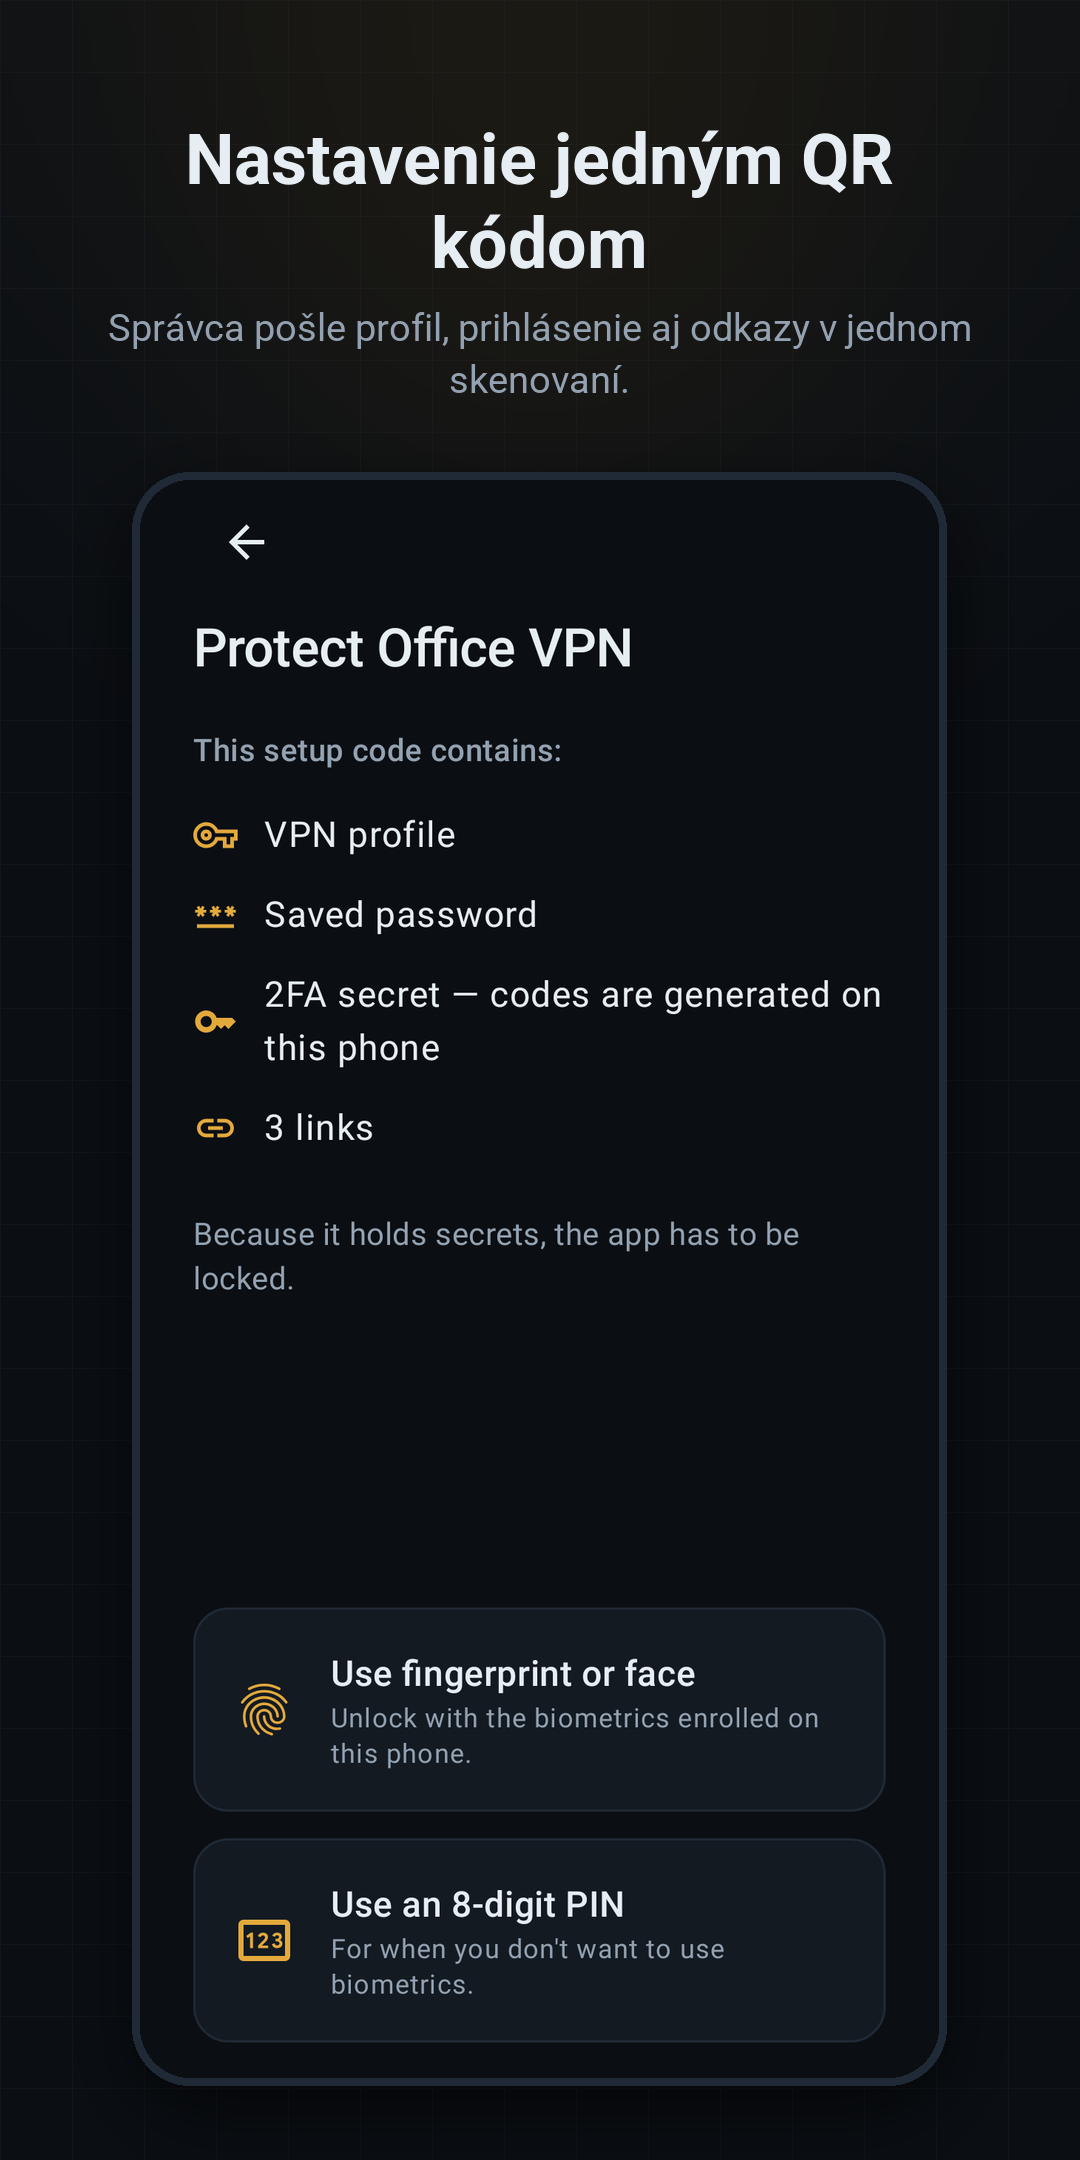
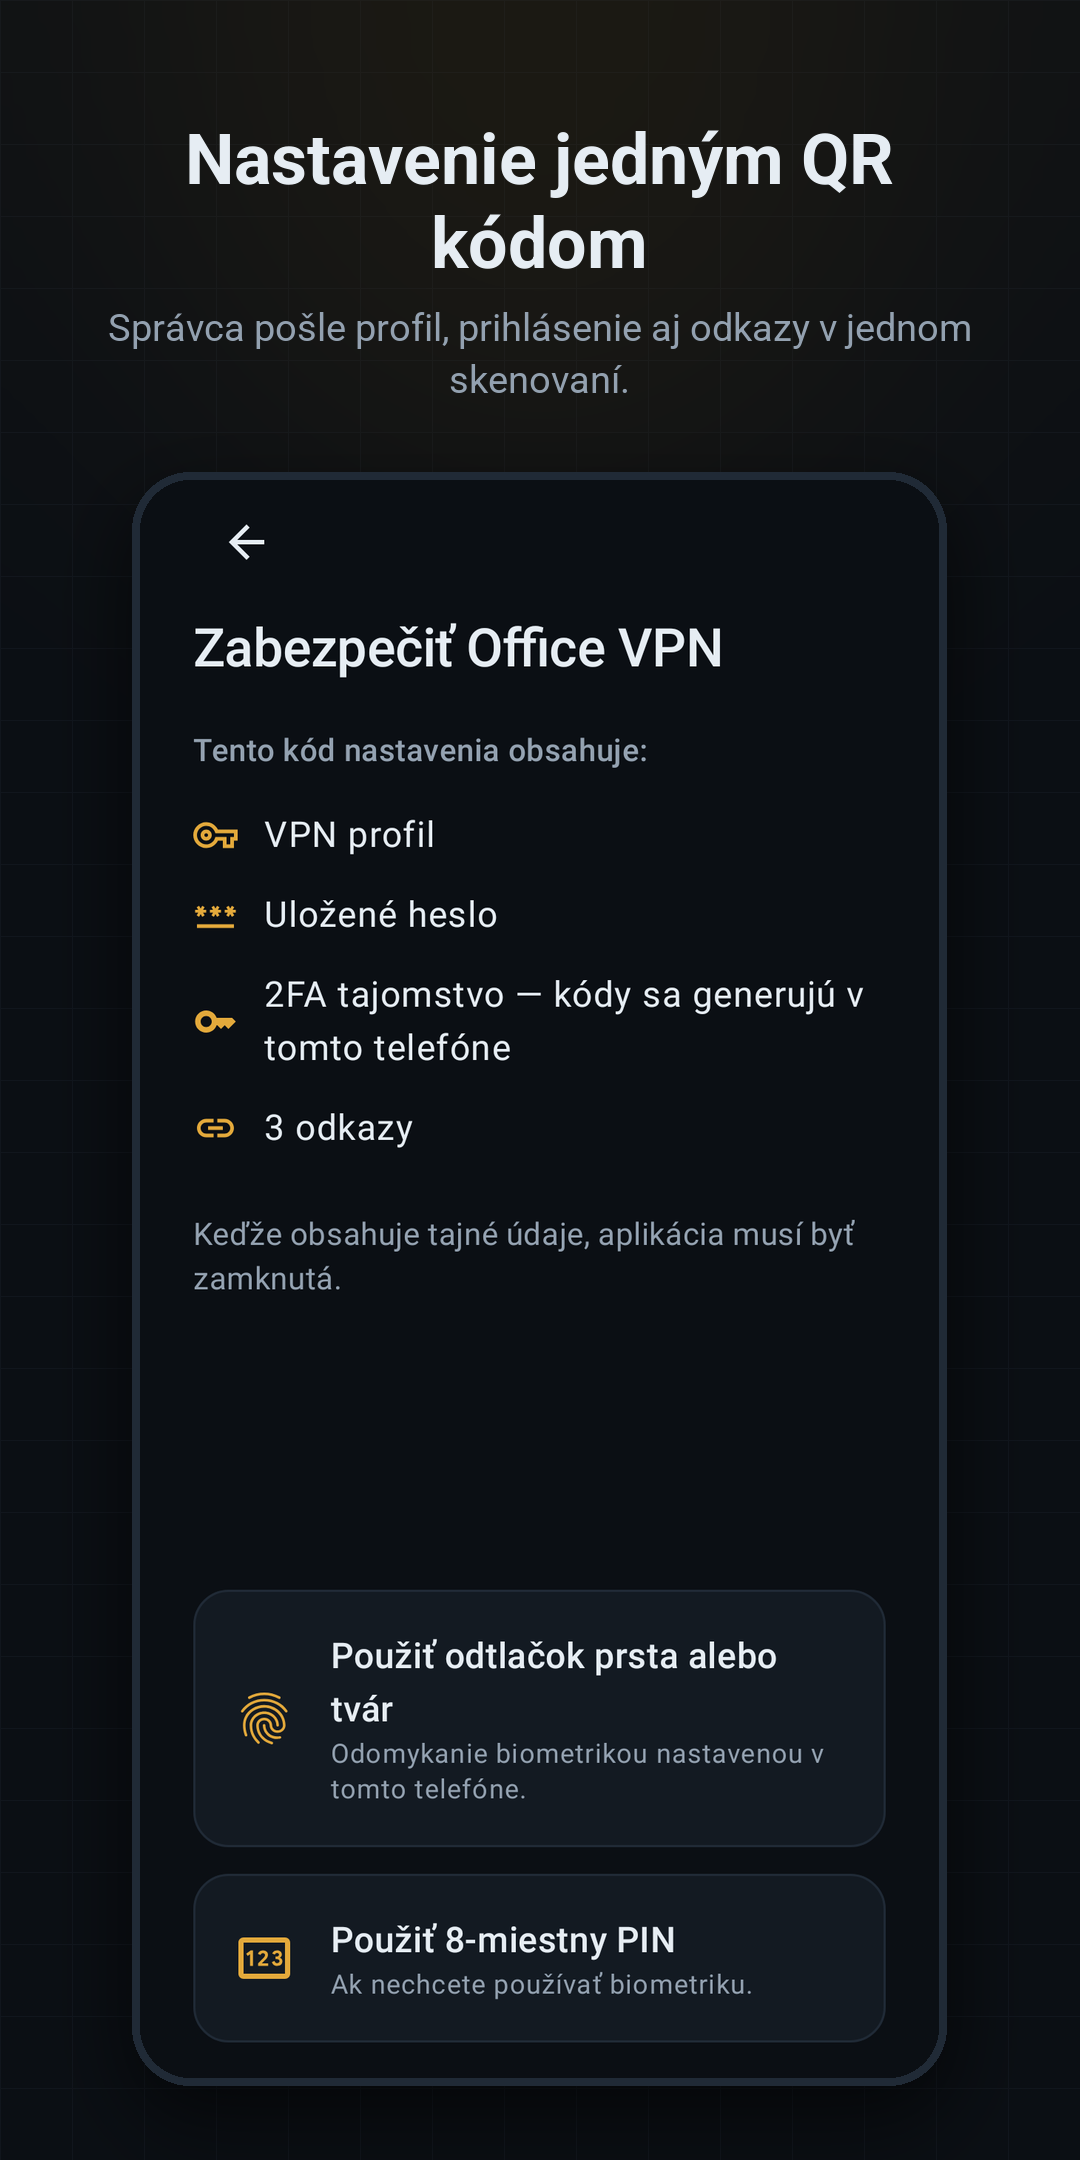
Android: Slovak translation
- values-sk with every string translated (proper Slovak plurals);
  Slovak is used when the phone's language is Slovak, English otherwise
- Per-app language list for Android 13+ settings
- Remaining hard-coded English (import and setup-code errors, OK buttons,
  PIN dots label, connection steps) moved to resources
- Native library linked for 16 KB pages (Play requirement for Android 15+)
- Slovak Play screenshots rendered from the Slovak UI; lint clean

diff --git a/android/app/src/main/java/app/tunnelkey/provision/SetupCode.kt b/android/app/src/main/java/app/tunnelkey/provision/SetupCode.kt
@@ -37,7 +37,9 @@ data class SetupPayload(
     @SerialName("l") val links: List<SetupLink> = emptyList(),
 )
 
-class SetupCodeException(message: String) : Exception(message)
+class SetupCodeException(val kind: Kind) : Exception(kind.name) {
+    enum class Kind { Damaged, TooLarge, NewerVersion, Incomplete }
+}
 
 /** One scanned QR code of a set. */
 data class SetupPart(val index: Int, val total: Int, val id: String, val data: String) {
@@ -80,7 +82,7 @@ class SetupCodeAssembler {
     }
 
     fun payload(): SetupPayload {
-        if (!isComplete) throw SetupCodeException("Not all parts scanned yet")
+        if (!isComplete) throw SetupCodeException(SetupCodeException.Kind.Incomplete)
         return SetupCodes.decode(parts.values.joinToString(""))
     }
 }
@@ -96,15 +98,15 @@ object SetupCodes {
         val payload = try {
             json.decodeFromString<SetupPayload>(raw.toString(Charsets.UTF_8))
         } catch (e: Exception) {
-            throw SetupCodeException("The setup code is damaged.")
+            throw SetupCodeException(SetupCodeException.Kind.Damaged)
         }
-        if (payload.version != 1) throw SetupCodeException("This setup code needs a newer version of Tunnelkey.")
-        if (payload.name.isBlank() || payload.ovpn.isBlank()) throw SetupCodeException("The setup code is incomplete.")
+        if (payload.version != 1) throw SetupCodeException(SetupCodeException.Kind.NewerVersion)
+        if (payload.name.isBlank() || payload.ovpn.isBlank()) throw SetupCodeException(SetupCodeException.Kind.Incomplete)
         return payload
     }
 
     fun base45Decode(s: String): ByteArray {
-        if (s.length % 3 == 1) throw SetupCodeException("Invalid setup code length")
+        if (s.length % 3 == 1) throw SetupCodeException(SetupCodeException.Kind.Damaged)
         val out = ByteArrayOutputStream(s.length * 2 / 3)
         var i = 0
         while (i < s.length) {
@@ -112,12 +114,12 @@ object SetupCodes {
             val c1 = value(s[i + 1])
             if (i + 2 < s.length) {
                 val v = c0 + c1 * 45 + value(s[i + 2]) * 2025
-                if (v > 0xFFFF) throw SetupCodeException("Invalid setup code")
+                if (v > 0xFFFF) throw SetupCodeException(SetupCodeException.Kind.Damaged)
                 out.write(v shr 8)
                 out.write(v and 0xFF)
             } else {
                 val v = c0 + c1 * 45
-                if (v > 0xFF) throw SetupCodeException("Invalid setup code")
+                if (v > 0xFF) throw SetupCodeException(SetupCodeException.Kind.Damaged)
                 out.write(v)
             }
             i += 3
@@ -127,7 +129,7 @@ object SetupCodes {
 
     private fun value(c: Char): Int {
         val v = ALPHABET.indexOf(c)
-        if (v < 0) throw SetupCodeException("Invalid character in setup code")
+        if (v < 0) throw SetupCodeException(SetupCodeException.Kind.Damaged)
         return v
     }
 
@@ -141,14 +143,14 @@ object SetupCodes {
             while (!inflater.finished()) {
                 val n = inflater.inflate(buf)
                 if (n == 0 && (inflater.needsInput() || inflater.needsDictionary())) {
-                    throw SetupCodeException("The setup code is damaged.")
+                    throw SetupCodeException(SetupCodeException.Kind.Damaged)
                 }
                 out.write(buf, 0, n)
-                if (out.size() > MAX_INFLATED) throw SetupCodeException("The setup code is too large.")
+                if (out.size() > MAX_INFLATED) throw SetupCodeException(SetupCodeException.Kind.TooLarge)
             }
             return out.toByteArray()
         } catch (e: java.util.zip.DataFormatException) {
-            throw SetupCodeException("The setup code is damaged.")
+            throw SetupCodeException(SetupCodeException.Kind.Damaged)
         } finally {
             inflater.end()
         }

diff --git a/android/app/src/test/java/app/tunnelkey/PlayStoreScreenshots.kt b/android/app/src/test/java/app/tunnelkey/PlayStoreScreenshots.kt
@@ -39,12 +39,13 @@ import org.junit.Before
 import org.junit.Rule
 import org.junit.Test
 import org.junit.runner.RunWith
+import org.robolectric.RuntimeEnvironment
 import org.robolectric.annotation.Config
 import org.robolectric.annotation.GraphicsMode
 
 /**
  * Renders the Google Play screenshots from the real screens with demo data.
- * Only runs with:  ./gradlew :app:testDebugUnitTest -PplayScreenshots --tests '*PlayStoreScreenshots*'
+ * Only runs with:  ./gradlew :app:testDebugUnitTest -PplayScreenshots [-PplayLocale=sk] --tests '*PlayStoreScreenshots*'
  * Output: docs/play-store/screens-raw/  (framed by docs/play-store/make_graphics.py)
  */
 @RunWith(AndroidJUnit4::class)
@@ -54,9 +55,14 @@ class PlayStoreScreenshots {
 
     @get:Rule val compose = createComposeRule()
 
-    private val dir get() = System.getProperty("screenshotDir")!!
+    private val locale get() = System.getProperty("playLocale") ?: "en-US"
+    private val dir get() = System.getProperty("screenshotDir")!! + "/" + locale
 
-    @Before fun onlyWhenRequested() = assumeTrue(System.getProperty("playScreenshots") == "true")
+    @Before fun onlyWhenRequested() {
+        assumeTrue(System.getProperty("playScreenshots") == "true")
+        // -PplayLocale=sk renders the Slovak UI.
+        if (locale != "en-US") RuntimeEnvironment.setQualifiers("+${locale.substringBefore('-')}")
+    }
 
     private fun screen(content: @Composable () -> Unit) = compose.setContent {
         TunnelkeyTheme(dark = true) {
@@ -114,7 +120,7 @@ class PlayStoreScreenshots {
                 onSubmit = { _, _ -> }, onDismiss = {},
             )
         }
-        compose.onNode(hasContentDescription("Authenticator code")).performTextInput("4829")
+        compose.onNode(hasContentDescription(if (locale == "sk") "Overovací kód" else "Authenticator code")).performTextInput("4829")
         compose.waitForIdle()
         captureScreenRoboImage("$dir/2_sign_in.png")
     }

diff --git a/android/app/src/main/java/app/tunnelkey/data/ProfileRepository.kt b/android/app/src/main/java/app/tunnelkey/data/ProfileRepository.kt
@@ -3,6 +3,7 @@ package app.tunnelkey.data
 import android.content.Context
 import android.net.Uri
 import android.provider.OpenableColumns
+import app.tunnelkey.R
 import kotlinx.coroutines.Dispatchers
 import kotlinx.coroutines.flow.MutableStateFlow
 import kotlinx.coroutines.flow.StateFlow
@@ -19,7 +20,8 @@ data class ImportDraft(
     val summary: OvpnSummary,
 )
 
-class ImportException(message: String) : Exception(message)
+/** [messageRes] is a user-facing string resource. */
+class ImportException(@androidx.annotation.StringRes val messageRes: Int) : Exception()
 
 /**
  * Profiles live in app-private storage: one `<id>.ovpn` per profile plus a
@@ -46,13 +48,13 @@ class ProfileRepository(private val context: Context, private val secrets: Secre
 
         val bytes = resolver.openInputStream(uri)?.use { input ->
             val buffer = input.readNBytesCompat(OvpnInspector.MAX_PROFILE_BYTES + 1)
-            if (buffer.size > OvpnInspector.MAX_PROFILE_BYTES) throw ImportException("This file is too large to be an OpenVPN profile.")
+            if (buffer.size > OvpnInspector.MAX_PROFILE_BYTES) throw ImportException(R.string.import_too_large)
             buffer
-        } ?: throw ImportException("The file could not be opened.")
+        } ?: throw ImportException(R.string.import_unreadable)
 
-        val content = String(bytes, Charsets.UTF_8).removePrefix("")
+        val content = String(bytes, Charsets.UTF_8).removePrefix(Char(0xFEFF).toString()) // byte-order mark
         val summary = OvpnInspector.inspect(content)
-        if (!summary.isValid) throw ImportException("This doesn't look like an OpenVPN client profile (no “remote” found).")
+        if (!summary.isValid) throw ImportException(R.string.import_not_profile)
         ImportDraft(name.substringBeforeLast('.').ifBlank { "Profile" }, content, summary)
     }
 

diff --git a/android/app/src/main/java/app/tunnelkey/ui/components/StatusHero.kt b/android/app/src/main/java/app/tunnelkey/ui/components/StatusHero.kt
@@ -99,10 +99,10 @@ fun StatusHero(status: TunnelStatus, profileName: String?, modifier: Modifier = 
             if (status.phase == Phase.Connected && since != null) {
                 Text("  ·  ", color = colors.onSurfaceVariant)
                 SessionTimer(since)
-            } else if (status.phase == Phase.Connecting && status.step.isNotEmpty()) {
+            } else if (status.phase == Phase.Connecting && stepLabel(status.step) != null) {
                 Text("  ·  ", color = colors.onSurfaceVariant)
                 Text(
-                    status.step.lowercase().replace('_', ' '),
+                    stringResource(stepLabel(status.step)!!),
                     style = MaterialTheme.typography.bodyMedium,
                     color = colors.onSurfaceVariant,
                 )
@@ -239,4 +239,15 @@ fun formatBytes(bytes: Long): String {
         unit++
     }
     return if (value >= 100) "%.0f %s".format(value, units[unit]) else "%.1f %s".format(value, units[unit])
+}
+
+/** Human-readable label for the OpenVPN core's connection steps; null hides the step. */
+private fun stepLabel(step: String): Int? = when (step) {
+    "RESOLVE" -> R.string.step_resolve
+    "WAIT", "CONNECTING" -> R.string.step_connecting
+    "AUTH_PENDING" -> R.string.step_auth
+    "GET_CONFIG" -> R.string.step_get_config
+    "ASSIGN_IP" -> R.string.step_assign_ip
+    "ADD_ROUTES" -> R.string.step_add_routes
+    else -> null
 }

diff --git a/android/app/src/main/java/app/tunnelkey/ui/MainActivity.kt b/android/app/src/main/java/app/tunnelkey/ui/MainActivity.kt
@@ -367,7 +367,7 @@ private fun App(vm: MainViewModel) {
             onDismissRequest = { error = null },
             title = { Text(stringResource(title)) },
             text = { Text(message) },
-            confirmButton = { TextButton(onClick = { error = null }) { Text("OK") } },
+            confirmButton = { TextButton(onClick = { error = null }) { Text(stringResource(R.string.action_ok)) } },
         )
     }
 
@@ -387,7 +387,7 @@ private fun App(vm: MainViewModel) {
                         }
                     }) { Text(stringResource(R.string.link_get_rdp_app)) }
                 } else {
-                    TextButton(onClick = { missingApp = null }) { Text("OK") }
+                    TextButton(onClick = { missingApp = null }) { Text(stringResource(R.string.action_ok)) }
                 }
             },
             dismissButton = if (link.kind == "rdp") {
@@ -413,7 +413,7 @@ private fun AboutDialog(onDismiss: () -> Unit) {
         onDismissRequest = onDismiss,
         title = { Text("${stringResource(R.string.app_name)} $version") },
         text = { Text(stringResource(R.string.about_body, core)) },
-        confirmButton = { TextButton(onClick = onDismiss) { Text("OK") } },
+        confirmButton = { TextButton(onClick = onDismiss) { Text(stringResource(R.string.action_ok)) } },
         dismissButton = {
             TextButton(onClick = {
                 runCatching {

diff --git a/android/app/src/main/java/app/tunnelkey/ui/screens/ScanScreen.kt b/android/app/src/main/java/app/tunnelkey/ui/screens/ScanScreen.kt
@@ -110,7 +110,14 @@ fun ScanScreen(onScanned: (SetupPayload) -> Unit, onBack: () -> Unit) {
             try {
                 onScanned(assembler.payload())
             } catch (e: SetupCodeException) {
-                message = e.message
+                message = context.getString(
+                    when (e.kind) {
+                        SetupCodeException.Kind.Damaged -> R.string.setup_code_damaged
+                        SetupCodeException.Kind.TooLarge -> R.string.setup_code_too_large
+                        SetupCodeException.Kind.NewerVersion -> R.string.setup_code_newer_version
+                        SetupCodeException.Kind.Incomplete -> R.string.setup_code_incomplete
+                    },
+                )
                 messageKey++
             }
         }

diff --git a/android/app/src/main/java/app/tunnelkey/ui/components/PinPad.kt b/android/app/src/main/java/app/tunnelkey/ui/components/PinPad.kt
@@ -46,10 +46,11 @@ fun PinDots(length: Int, filled: Int, errorKey: Int, error: Boolean) {
         for (x in listOf(-14f, 12f, -9f, 6f, -3f, 0f)) shake.animateTo(x, spring(stiffness = Spring.StiffnessHigh))
     }
     val colors = MaterialTheme.colorScheme
+    val description = stringResource(R.string.pin_dots_description, filled, length)
     Row(
         Modifier
             .offset { IntOffset(shake.value.dp.roundToPx(), 0) }
-            .semantics { contentDescription = "$filled of $length digits entered" },
+            .semantics { contentDescription = description },
         horizontalArrangement = Arrangement.spacedBy(12.dp),
     ) {
         repeat(length) { i ->

diff --git a/android/app/src/main/java/app/tunnelkey/ui/screens/LockScreens.kt b/android/app/src/main/java/app/tunnelkey/ui/screens/LockScreens.kt
@@ -282,7 +282,7 @@ fun LockScreen(
                     when (val r = onPin(pin)) {
                         is PinResult.Unlocked -> Unit
                         is PinResult.Wrong -> {
-                            error = context.getString(R.string.lock_wrong_pin, r.attemptsLeft)
+                            error = context.resources.getQuantityString(R.plurals.lock_wrong_pin, r.attemptsLeft, r.attemptsLeft)
                             until = r.lockedUntil
                             errorKey++
                         }

diff --git a/android/app/src/main/java/app/tunnelkey/ui/MainViewModel.kt b/android/app/src/main/java/app/tunnelkey/ui/MainViewModel.kt
@@ -155,7 +155,7 @@ class MainViewModel(app: Application) : AndroidViewModel(app) {
             )
             _events.send(UiEvent.OpenEditor)
         } catch (e: ImportException) {
-            _events.send(UiEvent.Error("import", e.message.orEmpty()))
+            _events.send(UiEvent.Error("import", getApplication<Application>().getString(e.messageRes)))
         } catch (e: Exception) {
             _events.send(UiEvent.Error("import", e.message ?: e.javaClass.simpleName))
         }

diff --git a/docs/play-store/make_graphics.py b/docs/play-store/make_graphics.py
@@ -1,7 +1,8 @@
 """Builds the Google Play graphics from the rendered app screens.
 
-    1. Render the screens (real Compose UI, demo data):
+    1. Render the screens (real Compose UI, demo data), once per language:
          cd android && ./gradlew :app:testDebugUnitTest -PplayScreenshots --tests '*PlayStoreScreenshots*'
+         cd android && ./gradlew :app:testDebugUnitTest -PplayScreenshots -PplayLocale=sk --tests '*PlayStoreScreenshots*'
     2. python docs/play-store/make_graphics.py
 
 Writes into fastlane/metadata/android/<locale>/images/:
@@ -154,9 +155,11 @@ def feature_graphic(raw, tagline):
 
 
 def main():
-    raws = {name: Image.open(RAW / f"{name}.png").convert("RGB") for name in SCREENS}
     icon = Image.open(ICON_SRC).convert("RGBA").resize((512, 512), Image.LANCZOS)
     for locale, captions in CAPTIONS.items():
+        # Screens rendered in that language (-PplayLocale=<locale>), else English.
+        src = RAW / locale if (RAW / locale).is_dir() else RAW / "en-US"
+        raws = {name: Image.open(src / f"{name}.png").convert("RGB") for name in SCREENS}
         images = META / locale / "images"
         (images / "phoneScreenshots").mkdir(parents=True, exist_ok=True)
         icon.save(images / "icon.png")

diff --git a/docs/play-store/README.md b/docs/play-store/README.md
@@ -230,7 +230,9 @@ YouTube) and paste the link.
 ## Regenerating the graphics
 
 ```bash
-cd android && ./gradlew :app:testDebugUnitTest -PplayScreenshots --tests '*PlayStoreScreenshots*'
+cd android
+./gradlew :app:testDebugUnitTest -PplayScreenshots --tests '*PlayStoreScreenshots*'
+./gradlew :app:testDebugUnitTest -PplayScreenshots -PplayLocale=sk --tests '*PlayStoreScreenshots*'
 cd .. && python docs/play-store/make_graphics.py
 ```
 
